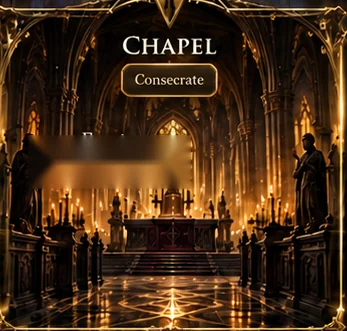
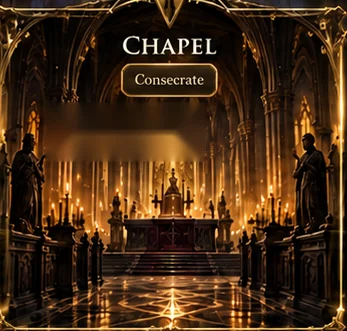
Align desktop layout to reference proportions and remove ghost Empty room labels

Changed region(s): [[0.0865, 0.3021, 0.5764, 0.574]]

diff --git a/src/styles/89-mockup-pixel-skin.css b/src/styles/89-mockup-pixel-skin.css
@@ -235,3 +235,15 @@ html.gothicUiPreview body::before{
  .gothicUiPreview #handPanel .handCharacterStage::before{display:none!important}
  .gothicUiPreview #gothicPreviewActions .btn{background-size:100% 100%!important}
 }
+
+
+/* Desktop proportional pass, measured against the 1846×852 source image. */
+@media(min-width:1001px) and (min-height:521px){
+ #gothicPreviewHeader{height:70px!important;min-height:70px!important}
+ #gothicWardHeader{height:69px!important;min-height:69px!important}
+ #gothicPreviewHeader #topStatusBar.stats{height:50px!important;min-height:50px!important}
+ .gothicUiPreview #boardSection .room{height:clamp(185px,17.05vw,326px)!important;min-height:clamp(185px,17.05vw,326px)!important}
+ .gothicUiPreview #gothicRitualHeading{height:38px!important;min-height:38px!important;padding-top:2px!important;padding-bottom:2px!important}
+ .gothicUiPreview #ritualPanel .ritual{min-height:clamp(204px,14.2vw,267px)!important}
+ .gothicUiPreview #handPanel .handCharacterCards{min-height:332px!important}
+}

diff --git a/index.html b/index.html
@@ -118,7 +118,7 @@
 <link rel="stylesheet" href="./src/styles/cloud-saves.css?v=clean38">
 <link rel="stylesheet" href="./src/styles/difficulty.css?v=clean70">
 <link rel="stylesheet" href="./src/styles/88-gothic-ui-preview.css?v=preview1">
-<link rel="stylesheet" href="./src/styles/89-mockup-pixel-skin.css?v=reference1">
+<link rel="stylesheet" href="./src/styles/89-mockup-pixel-skin.css?v=reference2">
 </head>
 <body>
 <div id="gameStatusToast" class="gameStatusToast hidden" role="status" aria-live="polite"></div>

diff --git a/service-worker.js b/service-worker.js
@@ -1,4 +1,4 @@
-const CACHE_NAME='sanctum-gothic-preview-v4';
+const CACHE_NAME='sanctum-gothic-preview-v5';
 const CORE=[
   './',
   './index.html',
